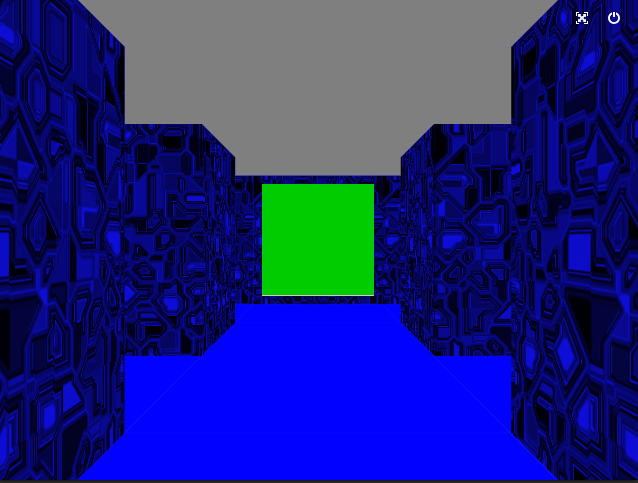
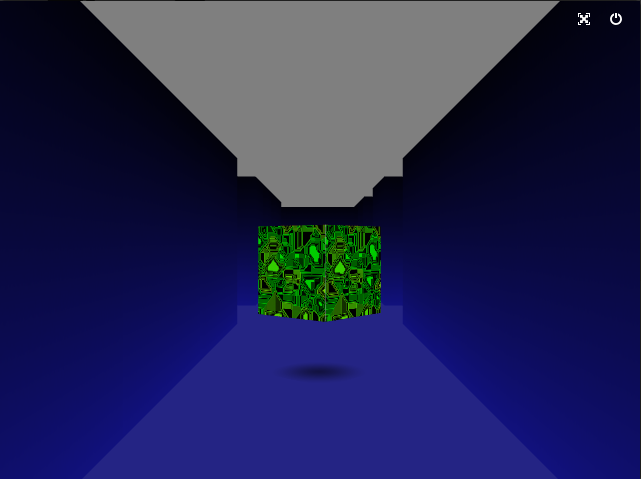
Updated project singleton

diff --git a/projects/singleton/game.html b/projects/singleton/game.html
@@ -7,12 +7,53 @@
     <meta name="description" content="">
     <meta name="author" content="">
 
+    <link rel="stylesheet" type="text/css" href="../../css/example.css">
     <link href="../../css/bootstrap.min.css" rel="stylesheet">
     <link href="../../css/bootstrap-responsive.min.css" rel="stylesheet">
 
     <script type="text/javascript" src="../../js/jquery-1.8.2.min.js"></script>
+    <script type="text/javascript" src="../../js/bootstrap.min.js"></script>
     <script data-main="../../src/crimild" src="../../lib/require.js"></script>
-    <link rel="stylesheet" type="text/css" href="../../css/example.css">
+    <style type="text/css">
+        body {
+            color: white;
+            padding: 0;
+        }
+
+        .menu {
+            position: absolute;
+            text-align: center;
+        }
+
+        #mainMenu {
+            width:390px;
+            top: 40px;
+            left: 122px;
+        }
+
+        .help {
+            text-align: left;
+            margin-top: 60px;
+        }
+
+        #gameOver {
+            top: 125px;
+            left: 215px;
+        }
+
+        .btn-game-over {
+            margin-top: 30px;
+        }
+
+        #levelCompleted {
+            top: 125px;
+            left: 180px;
+        }
+
+        .btn-level-completed {
+            margin-top: 30px;
+        }
+    </style>
     <script id="dissolve-vs" type="x-shader/x-fragment">
         attribute vec3 aVertexPosition;
         attribute vec2 aTextureCoord;
@@ -551,7 +592,7 @@
 
                                     cmp.update = function() {
                                         if (levelCompleted || corruptionLevel >= corruptionRequired) {
-                                            cmp.actor.status = actorStatus.DEAD;
+                                            cmp.actor.kill();
                                         }
 
                                         if (cmp.actor.status == actorStatus.DEAD) {
@@ -601,9 +642,9 @@
                                         cmp.getUniform("uAppTime").data = appTime / 1000.0;
 
                                         if (cmp.node.getComponent("behavior").actor.status == actorStatus.DYING) {
-                                            if (time < 1.0) {
-                                                time += deltaTime / 1000.0;
+                                            if (time <= 1.0) {
                                                 cmp.getUniform("uTime").data = time;
+                                                time += deltaTime / 1000.0;
                                             }
                                             else {
                                                 cmp.node.getComponent("behavior").actor.status = actorStatus.DEAD;
@@ -1196,6 +1237,30 @@
                                     (function() {
                                         var cmp = createActorBehavior(actorType.PLAYER, getRandomWaypoint(waypoints));
 
+                                        var superOnAttach = cmp.onAttach;
+                                        cmp.onAttach = function() {
+                                            superOnAttach();
+
+                                            if (!cmp.actor.waypoint.northNeighbor) {
+                                                var factor = 0;
+                                                if (cmp.actor.waypoint.southNeighbor) {
+                                                    factor = 2;
+                                                    cmp.actor.orientation = actorOrientation.SOUTH;
+                                                }
+                                                else if (cmp.actor.waypoint.westNeighbor) {
+                                                    factor = 1;
+                                                    cmp.actor.orientation = actorOrientation.WEST;
+                                                }
+                                                else if (cmp.actor.waypoint.eastNeighbor) {
+                                                    factor = -1;
+                                                    cmp.actor.orientation = actorOrientation.EAST;
+                                                }
+
+                                                cmp.node.local.rotate = quat4.fromAngleAxis(factor * Math.PI / 2, [0, 1, 0]);
+                                                cmp.node.perform(crimild.core.worldStateUpdate());
+                                            }
+                                        };
+
                                         cmp.update = function() {
                                             if (cmp.actor.status == actorStatus.DEAD) {
                                                 showGameOver();
@@ -1415,7 +1480,8 @@
                     crimild.simulation.run({
                         canvas: canvas, 
                         scenes: [scene],
-                    });
+                        grabInput: true,
+                    }).getRenderer().setClearColor(0, 0, 0, 1);
                 }
             });
         }
@@ -1429,31 +1495,44 @@
         </div>
     </div>
 
-    <div id="mainMenu" style="display: none; position: absolute;">
-        <h1>Choose difficulty level</h1>
-        <p>
-            <a class="btn btn-primary btn-large start-game-easy">Easy &raquo;</a>
-            <a class="btn btn-primary btn-large start-game-normal">Normal &raquo;</a>
-            <a class="btn btn-primary btn-large start-game-hard">Hard &raquo;</a>
-            <a class="btn btn-primary btn-large start-game-hardcore">Hardcore &raquo;</a>
-        </p>
-        <div class="help">
-            <h1>How to play</h1>
-            <p>Use the cursor keys to move</p>
-            <p>Hit SPACE to kill processes</p>
-            <p>Run from the antiviruses</p>
+    <div id="mainMenu" class="menu" style="display: none;">
+        <div>
+            <h2>Choose difficulty level</h2>
+            <p>
+                Difficulty affects the number of programs you need to corrupt in order to expose
+                the Kernel, as well as the number of hostile processes dispatched to protect the system
+            </p>
+            <p style="padding-top: 10px;">
+                <a class="btn btn-inverse btn-large start-game-easy">Easy &raquo;</a>
+                <a class="btn btn-inverse btn-large start-game-normal">Normal &raquo;</a>
+                <a class="btn btn-inverse btn-large start-game-hard">Hard &raquo;</a>
+                <a class="btn btn-inverse btn-large start-game-hardcore">Hardcore &raquo;</a>
+            </p>
+            <div class="help">
+                <h2>Tips:</h2>
+                <ul>
+                    <li>Use cursor keys (or WASD) to move</li>
+                    <li>Hit SPACE to consume a program o corrupt the Kernel</li>
+                    <li>If you see an agent... RUN!</li>
+                </ul>
+            </div>
         </div>
     </div>
 
-    <div id="gameOver" style="display: none; position: absolute;">
-        <h1>Game Over</h1>
-        <h2>You have been derezzed</h2>
-        <p><a class="btn btn-primary btn-large" href="game.html">Back to Main Menu &raquo;</a></p>
+    <div id="gameOver" class="menu" style="display: none;">
+        <div>
+            <h1>Game Over</h1>
+            <p>You have been terminated</p>
+            <p><a class="btn btn-inverse btn-large btn-game-over" href="game.html">Main Menu &raquo;</a></p>
+        </div>
     </div>
 
-    <div id="levelCompleted" style="display: none; position: absolute;">
-        <h1>Congratulations</h1>
-        <p><a class="btn btn-primary btn-large" href="game.html">Play again &raquo;</a></p>
+    <div id="levelCompleted" class="menu" style="display: none;">
+        <div>
+            <h1>Congratulations</h1>
+            <p>You have corrupted this system</p>
+            <p><a class="btn btn-inverse btn-large btn-level-completed" href="game.html">Main Menu &raquo;</a></p>
+        </div>
     </div>
 
     <div id="game" style="display: none;">
@@ -1473,4 +1552,4 @@
     </div>
 </body>
 </html>
-</html>
+

diff --git a/projects/singleton/index.html b/projects/singleton/index.html
@@ -123,12 +123,12 @@
         <div class="container">
             <div class="hero-unit">
                 <h1>Singleton: The Game</h1>
-                <h2>There can be only one</h2>
-                <p><a class="btn btn-primary btn-large play-game" href="game.html">Play Game &raquo;</a></p>
-            </div>
-
-            <div class="alert">
-                <strong>Warning!</strong> You need a web browser that supports WebGL in order to run this game.
+                <br />
+                <p>You're Clu XVII, the latest creation of the criminal mastermind known as Doctor Gof. Your mission: to corrupt and
+                control the Sprawl and all of its systems. Many have tried and failed.</p>
+                <p>Can you become the One?</p>
+                <h2>Can you become... <span style="font-style: italic;">The Singleton?</span></h2>
+                <a class="btn btn-primary btn-large play-game" style="width: 250px;" href="game.html">Play Game &raquo;</a>
             </div>
 
             <h1>Screenshots</h1>
@@ -136,16 +136,22 @@
                 <li class="span1"><a href="assets/ss01.png" class="thumbnail"><img src="assets/ss01.png" rel="tooltip" data-placement="top" /></a></li>
                 <li class="span1"><a href="assets/ss02.png" class="thumbnail"><img src="assets/ss02.png" rel="tooltip" data-placement="top" /></a></li>
                 <li class="span1"><a href="assets/ss03.png" class="thumbnail"><img src="assets/ss03.png" rel="tooltip" data-placement="top"/></a></li>
+                <li class="span1"><a href="assets/ss04.png" class="thumbnail"><img src="assets/ss04.png" rel="tooltip" data-placement="top"/></a></li>
+                <li class="span1"><a href="assets/ss05.png" class="thumbnail"><img src="assets/ss05.png" rel="tooltip" data-placement="top"/></a></li>
+                <li class="span1"><a href="assets/ss06.png" class="thumbnail"><img src="assets/ss06.png" rel="tooltip" data-placement="top"/></a></li>
             </ul>
-        </div>
+
+            <div class="alert">
+                <strong>Warning!</strong> You need a web browser that supports WebGL in order to run this game.
+            </div>
         </div>
 
         <div class="modal hide" id="myModal" tabindex="-1" role="dialog" aria-labelledby="myModalLabel" aria-hidden="true">
-  			<div style="position: absolute; left: 570px; padding: 5px 0;">
-    			<a href="#" class="btn btn-link btn-mini fullscreen"><i class="icon-fullscreen icon-white"></i></a>
-    			<a href="#" class="btn btn-link btn-mini" data-dismiss="modal" aria-hidden="true"><i class="icon-off icon-white"></i></a>
-  			</div>
-            <div id="frame-contents"></div>
+    			<div style="position: absolute; left: 600px; padding: 5px 0;">
+      			<a href="#" class="btn btn-link btn-mini" data-dismiss="modal" aria-hidden="true"><i class="icon-off icon-white"></i></a>
+    			</div>
+          <div id="frame-contents">
+          </div>
         </div>
     </body>
 </html>
